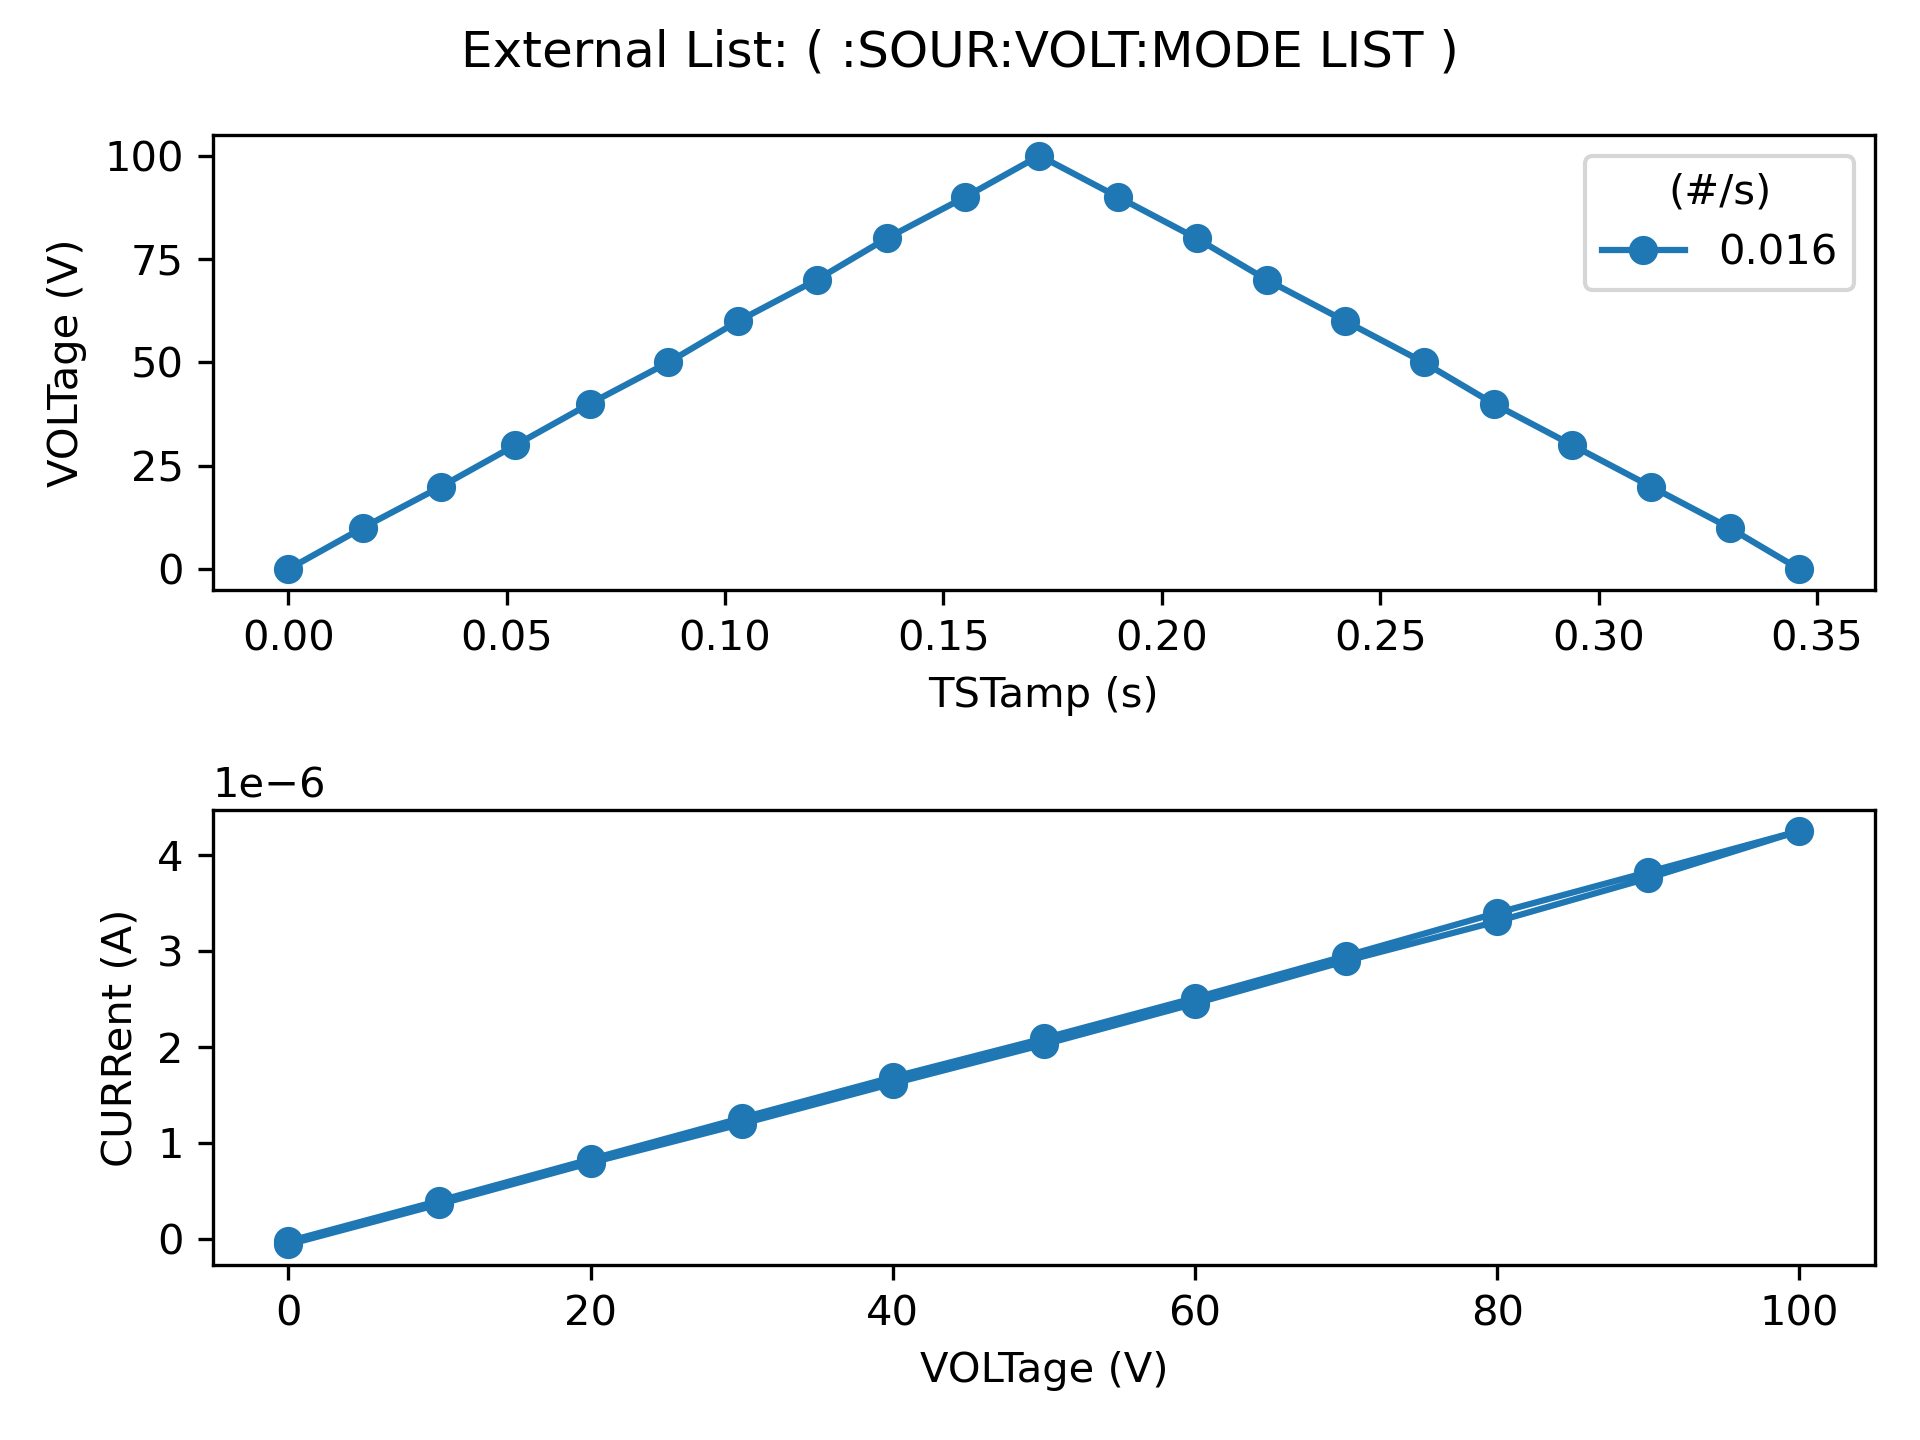
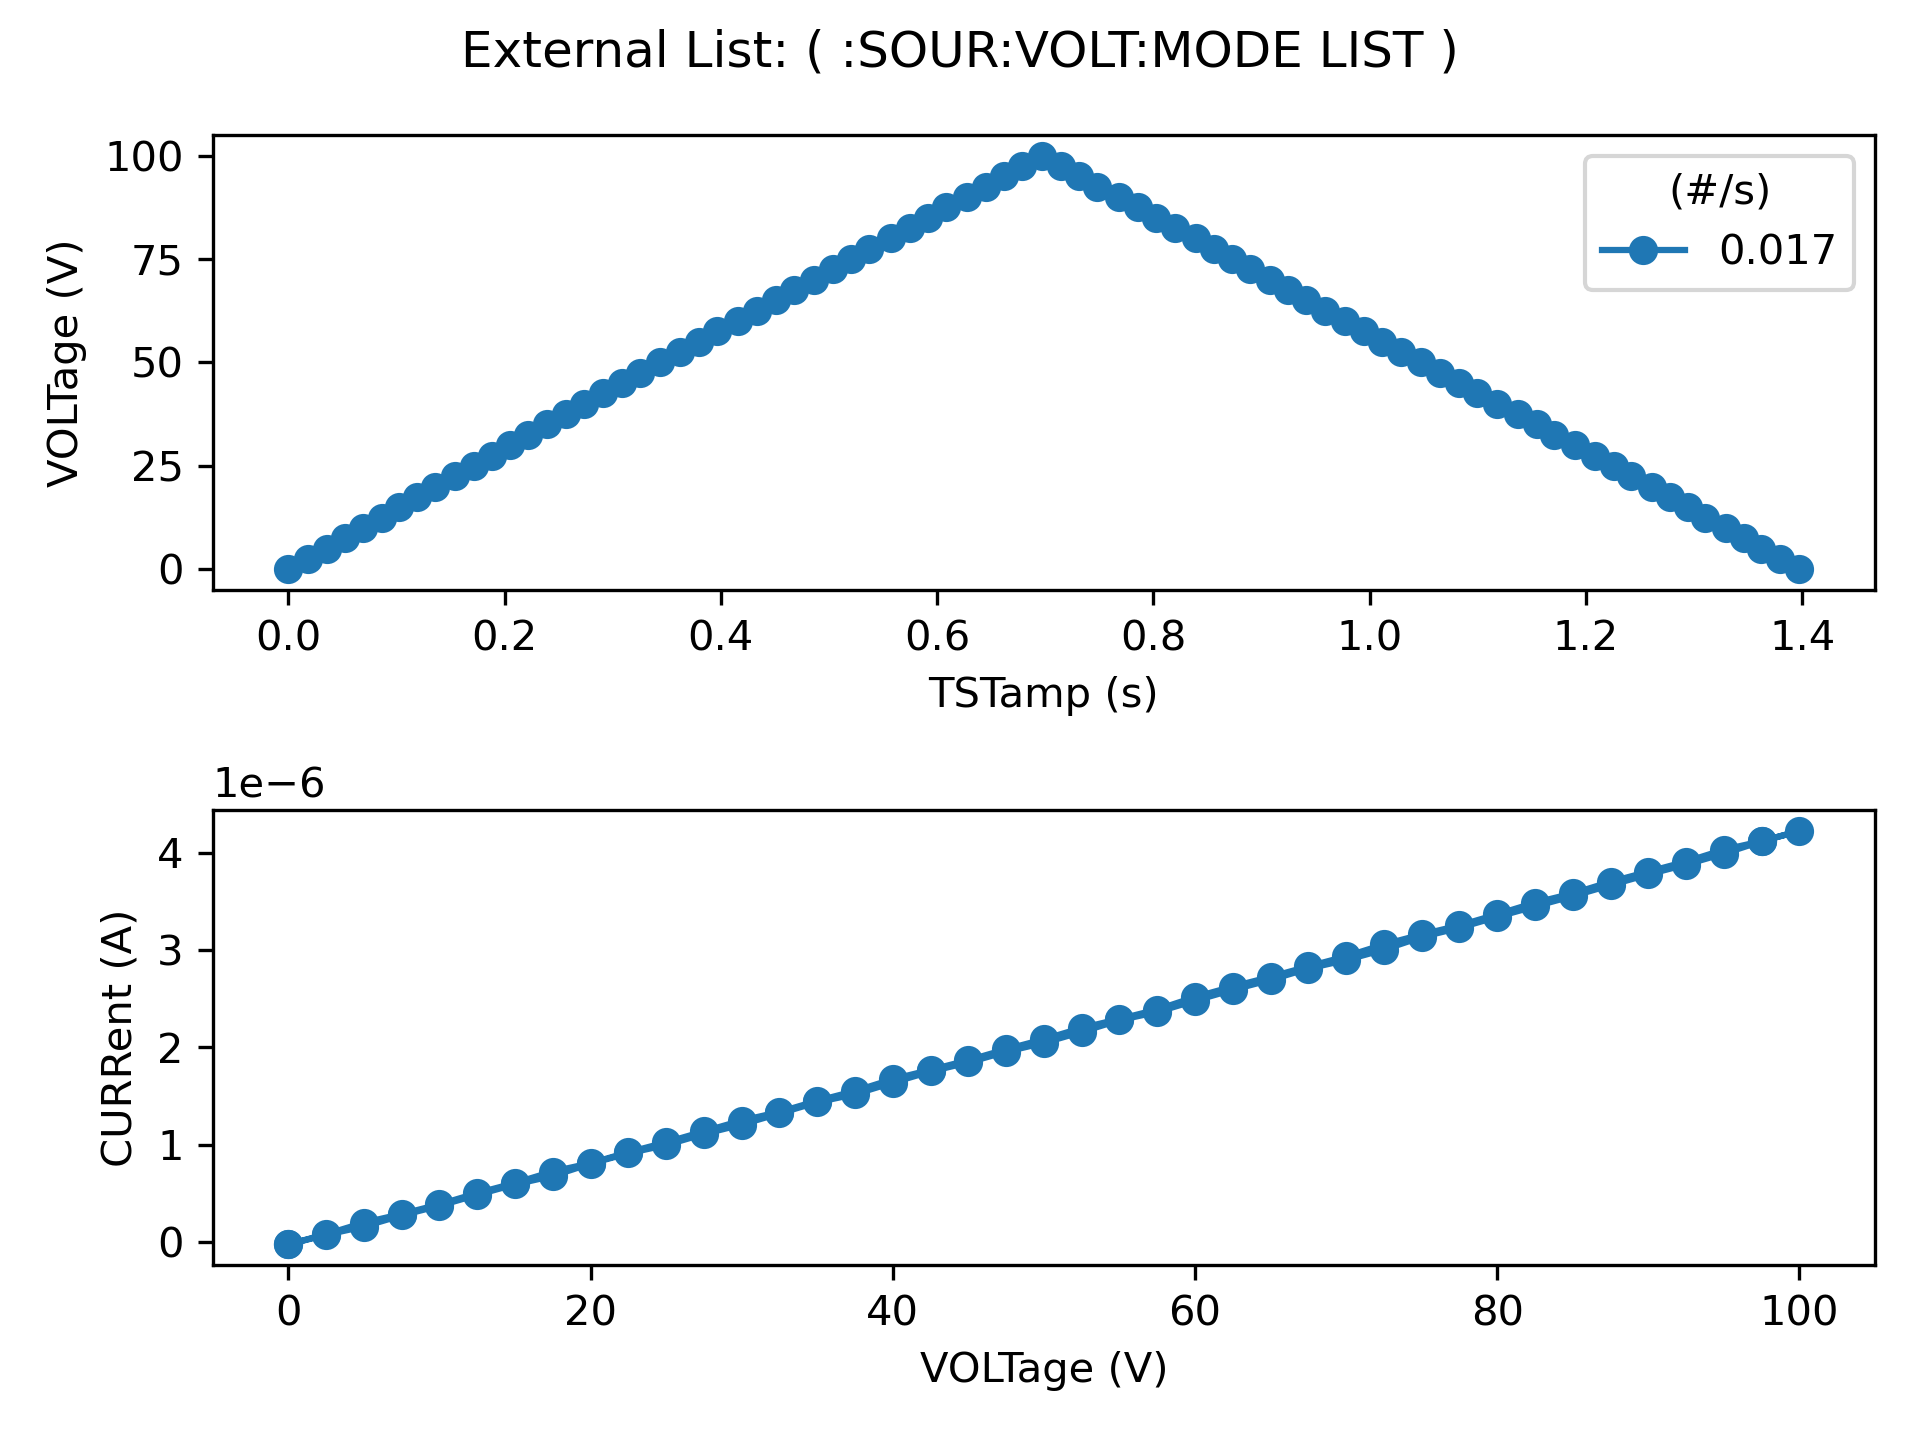
added sweep speed test and multi-instrument connection test

diff --git a/examples/playground/trigex1_keithley_establish_connection_to_multi_instruments.py b/examples/playground/trigex1_keithley_establish_connection_to_multi_instruments.py
@@ -1,0 +1,136 @@
+
+
+
+GPIB = 27
+BoardIndex = 3
+
+import pyvisa
+
+# ----------------------------------------------------------------------------------------------------------------------
+# ----------------------------------------------------------------------------------------------------------------------
+# 1. A GENERAL EXAMPLE
+
+rm = pyvisa.ResourceManager()
+print(rm)
+"""
+After importing pyvisa, we create a ResourceManager object. If called without arguments,
+PyVISA will prefer the default backend (IVI) which tries to find the VISA shared library 
+for you. If it fails it will fall back to pyvisa-py if installed. You can check what backend 
+is used and the location of the shared library used, if relevant, simply by:
+
+print(rm)
+# returns somethign like: <ResourceManager('/path/to/visa.so')>
+
+"""
+
+print(rm.list_resources())
+print(rm.list_resources('?*'))
+# returns something like: ('ASRL1::INSTR', 'ASRL2::INSTR', 'GPIB0::14::INSTR')
+
+my_instrument = rm.open_resource('GPIB{}::{}::INSTR'.format(BoardIndex, GPIB))
+"""
+Once that you have a ResourceManager, you can list the available resources using the list_resources method. 
+The output is a tuple listing the VISA resource names. You can use a dedicated regular expression syntax to 
+filter the instruments discovered by this method. The syntax is described in details in list_resources(). 
+The default value is ‘?*::INSTR’ which means that by default only instrument whose resource name ends 
+with ‘::INSTR’ are listed (in particular USB RAW resources and TCPIP SOCKET resources are not listed). 
+To list all resources present, pass ‘?*’ to list_resources.
+
+In this case, there is a GPIB instrument with instrument number 14, so you ask the ResourceManager to 
+open “‘GPIB0::14::INSTR’” and assign the returned object to the my_instrument.
+
+Notice open_resource has given you an instance of GPIBInstrument class (a subclass of the more generic Resource).
+"""
+
+print(my_instrument.query('*IDN?'))
+"""
+Then, you query the device with the following message: '\*IDN?'. Which is the standard GPIB message for 
+“what are you?” or – in some cases – “what’s on your display at the moment?”. query is a short form for 
+a write operation to send a message, followed by a read.
+"""
+
+# ---
+
+"""
+For most instruments, you actually need to properly configure the instrument so that it understands the message 
+sent by the computer (in particular how to identifies the end of the commands) and so that computer knows when 
+the instrument is done talking. If you don’t you are likely to see a VisaIOError reporting a timeout.
+
+For message based instruments (which covers most of the use cases), this usually consists in properly setting the 
+read_termination and write_termination attribute of the resource. Resources have more attributes described in 
+Resources, but for now we will focus on those two.
+
+The first place to look for the values you should set for your instrument is the manual. The information you are 
+looking is usually located close to the beginning of the IO operation section of the manual. If you cannot find 
+the value, you can try to iterate through a couple of standard values but this is not recommended approach.
+
+Once you have that information you can try to configure your instrument and start communicating as follows:
+"""
+
+my_instrument.read_termination = '\n'
+my_instrument.write_termination = '\n'
+my_instrument.query('*IDN?')
+
+"""
+Here we use ‘n’ known as ‘line feed’. This is a common value, another one is ‘r’ i.e. ‘carriage return’, and in 
+some cases the null byte ‘0’ is used.
+"""
+
+# ---
+
+"""
+When using query, we are testing both writing to and reading from the instrument. The first thing to do is to 
+try to identify if the issue occurs during the write or the read operation.
+
+If your instrument has a front panel, you can check for errors (some instrument will display a transient message 
+right after the read). If an error occurs, it may mean your command string contains a mistake or the instrument 
+is using a different set of command (some instrument supports both a legacy set of commands and SCPI commands). 
+If you see no error it means that either the instrument did not detect the end of your message or you just cannot 
+read it. The next step is to determine in what situation we are.
+
+To do so, you can look for a command that would produce a visible/measurable change on the instrument and send it. 
+In the absence of errors, if the expected change did not occur it means the instrument did not understand that the 
+command was complete. This points out to an issue with the write_termination. At this stage, you can go back to the 
+manual (some instruments allow to switch between the recognized values), or try standards values (such as ‘n’, ‘r’, 
+combination of those two, ‘0’).
+
+Assuming you were able to confirm that the instrument understood the command you sent, it means the reading part is 
+the issue, which is easier to troubleshoot. You can try different standard values for the read_termination, but if 
+nothing works you can use the read_bytes() method. This method will read at most the number of bytes specified. So 
+you can try reading one byte at a time till you encounter a time out. When that happens most likely the last 
+character you read is the termination character. Here is a quick example:
+"""
+my_instrument.write('*IDN?')
+i = 0
+while i < 3:
+    print(my_instrument.read_bytes(1))
+    i += 1
+
+"""
+If read_bytes() times out on the first read, it actually means that the instrument did not answer. If the instrument 
+is old it may be because your are too fast for it, so you can try waiting a bit before reading (using time.sleep 
+from Python standard library). Otherwise, you either use a command that does not cause any answer or actually your 
+write does not work (go back up a couple of paragraph).
+
+Some instruments may be slow in answering and may require you to either increase the timeout or specify a delay
+between the write and read operation. This can be done globally using query_delay or passing delay=0.1 for example 
+to wait 100 ms after writing before reading.
+
+When transferring large amount of data the total transfer time may exceed the timeout value in which case increasing 
+the timeout value should fix the issue.
+"""
+
+# ---
+
+"""
+Sean MacKenzie:
+
+Note, it seems this program doesn't close communication with the tool correctly. 
+
+Because it can only be run once and then the second run returns a TimeOut error. 
+"""
+my_instrument.close()
+
+
+
+

diff --git a/WaferTests/I-V/IV_triangle_wave_arbitrary_config.py b/WaferTests/I-V/IV_triangle_wave_arbitrary_config.py
@@ -1,0 +1,176 @@
+from os.path import join
+import pyvisa
+import numpy as np
+import pandas as pd
+import matplotlib.pyplot as plt
+
+
+""" Description of this code
+
+test 1
+1 cycle: 0 V to 100 V to -100 V to 0 V over 4 seconds (0.5 Hz)
+
+test 2
+5 cycles: 0 V to 100 V to -100 V to 0 V over 2 seconds (1 Hz)
+
+
+Inputs:
+1. peak voltage (e.g., 100 V)
+2. pm (+V to -V) or pp (+V to 0)
+3. frequency (e.g., 0.5 Hz or 1 Hz)
+"""
+
+# --- FUNCTION FOR CONVERTING NUMPY ARRAY TO STRING LIST FOR KEITHLEY
+
+def append_reverse(arr, single_point_max):
+    """
+    Append a NumPy array to itself in reverse order.
+    """
+    reversed_arr = arr[::-1]
+
+    if single_point_max is True:
+        reversed_arr = reversed_arr[1:]
+
+    appended_arr = np.concatenate((arr, reversed_arr))
+
+    return appended_arr
+
+def numpy_array_to_string(arr):
+    # Convert the NumPy array elements to strings
+    str_arr = arr.astype(str)
+
+    # Join the string elements with commas
+    joined_str = ','.join(str_arr)
+
+    return joined_str
+
+
+# --- VARIABLES THAT RARELY CHANGE
+GPIB = 23
+
+# --- KEITHLEY CODE
+"""
+Inputs:
+1. peak voltage (e.g., 100 V)
+2. pm (+V to -V) or pp (+V to 0)
+3. frequency (e.g., 0.5 Hz or 1 Hz)
+"""
+
+# RANGE
+start, stop = 0, 100
+step = stop / 5
+values = np.arange(start, stop + step, step)
+values_up_and_down = append_reverse(values, single_point_max=True)
+values_lst = numpy_array_to_string(values_up_and_down)
+num_points = len(values_up_and_down)
+
+current_range = 110E-6
+
+# FREQUENCY
+source_measure_delay = 0.025  #0.015 (s)             0.01: 1.8 s half-period (i.e., 0-peak-0 V)
+NPLC = 0.5  # (Number of Power Line Cycles)
+integration_period = NPLC / 60
+
+# TODO: Set the voltage to 0V at the end of the test, OR, need to do something to remove all charge from system.
+path_results = r'C:\Users\nanolab\Desktop\sean\zipper\xxx'
+save_name = 'W00x_0V_test00_'
+plot_title = 'W00x: source measure delay={} s, NPLC={}'.format(source_measure_delay, NPLC)
+
+# DATA TYPES
+elements_sense = 'VOLTage, CURRent, TIME'  #, RESistance, STATus
+idxV, idxC, idxT, idxR, idxSTAT = 0, 1, 2, 3, 4
+num_elements = len(elements_sense.split(','))
+
+# ---
+
+rm = pyvisa.ResourceManager()
+keithley = rm.open_resource("GPIB::{}".format(GPIB))
+
+# 0.
+keithley.write('*RST')  # Restore GPIB default
+
+keithley.write(':FORMat:ELEMents:SENSe ' + elements_sense)
+keithley.write(':DATA:TSTamp:FORMat DELTa')
+
+# keithley.write(':SENS:FUNC:CONC OFF')  # Turn off concurrent functions.
+keithley.write(':SOUR:FUNC VOLT')  # Volts source function.
+keithley.write(':SOUR:VOLT:RANG MAX')  # Select V-source range (n = range).
+keithley.write(':SENS:FUNC "CURR:DC"')  # Current sense function.
+keithley.write(':SENS:CURR:PROT %g' % current_range)  # 1 mA current compliance.
+keithley.write(':SENS:CURR:RANG %g' % current_range)  # 1 mA current compliance.
+keithley.write(':SENS:CURR:NPLC %g' % NPLC)  # Specify integration rate (in line cycles): [0.01 to 10E3] (default = 1)
+
+
+keithley.write(':SOUR:VOLT:MODE LIST')  # List volts sweep mode.
+keithley.write(':SOUR:LIST:VOLT ' + values_lst)  # List sweep points.
+keithley.write(':TRIG:COUN ' + str(num_points))  # Trigger count = # sweep points.
+keithley.write(':SOUR:DEL %g' % source_measure_delay)  # 50ms source delay.
+
+keithley.write(':OUTP ON')  # Turn on source output.
+data = keithley.query_ascii_values(':READ?', container=np.array)  # Trigger sweep, request data.
+
+""" Custom sweep commands
+
+:SOURce:VOLTage:MODE LIST               Select voltage list (custom) sweep mode.
+:SOURce:LIST:VOLTage < list>            Define V-source list (list = V1, V2,... Vn).
+:SOURce:LIST:VOLTage:APPend <list>      Add V-source list value(s) (list =V1, V2,...Vn).
+:SOURce:LIST:VOLTage:POINts?            Query length of V-source list.
+:SOURce:SWEep:RANGing <name>            Select source ranging (name = BEST, AUTO, or FIXed).
+"""
+
+# Sean Code
+
+# --- POST-PROCESSING
+
+data_elements = keithley.query(':FORMat:ELEMents:SENSe?')
+keithley.write(':OUTP OFF')  # End example given in manual
+
+# Data analysis
+
+print("Data Elements " + data_elements)
+data_struct = np.reshape(data, (num_points, num_elements))
+
+sampling_rate = np.round((data_struct[-1, idxT] - data_struct[0, idxT]) / len(data_struct[:, idxT]), 5)
+print("Sampling Rate: {}".format(np.round(sampling_rate, 4)))
+print("Time to sample 100 points: {}".format(np.round(sampling_rate * 100, 3)))
+print("Time to sample 500 points: {}".format(np.round(sampling_rate * 500, 3)))
+
+# ---
+
+# - PLOTTING
+
+# arrays to plot
+t = data_struct[:, idxT] - data_struct[0, idxT]  # convert to relative time since start
+V = data_struct[:, idxV]
+I = data_struct[:, idxC] * 1e9  # convert to nano Amps
+
+# split into rising/falling traces
+idx_split = np.argmax(V) + 1
+t_rise, t_fall = t[:idx_split], t[idx_split:]
+V_rise, V_fall = V[:idx_split], V[idx_split:]
+I_rise, I_fall = I[:idx_split], I[idx_split:]
+
+
+fig, (ax1, ax2) = plt.subplots(nrows=2, gridspec_kw={'height_ratios': [1, 1]})
+
+ax1.plot(t_rise, V_rise, '-o', color='r', label='Rising')
+ax1.plot(t_fall, V_fall, '-o', color='b', label='Falling')
+ax1.set_xlabel('TSTamp (s)')
+ax1.set_ylabel('VOLTage (V)')
+ax1.legend(title='sampling rate={} (#/s)'.format(np.round(sampling_rate, 3)))
+
+ax2.plot(V_rise, I_rise, '-o', color='r')
+ax2.plot(V_fall, I_fall, '-o', color='b')
+ax2.set_xlabel('VOLTage (V)')
+ax2.set_ylabel('CURRent (nA)')
+
+plt.suptitle(plot_title)
+plt.tight_layout()
+# plt.savefig(join(path_results, save_name + '.png'), dpi=300)
+plt.show()
+plt.close()
+
+# --- export to excel
+
+# df = pd.DataFrame(data_struct, columns=['V', 'I', 't'])
+# df.to_excel(join(path_results, save_name + '.xlsx'))
